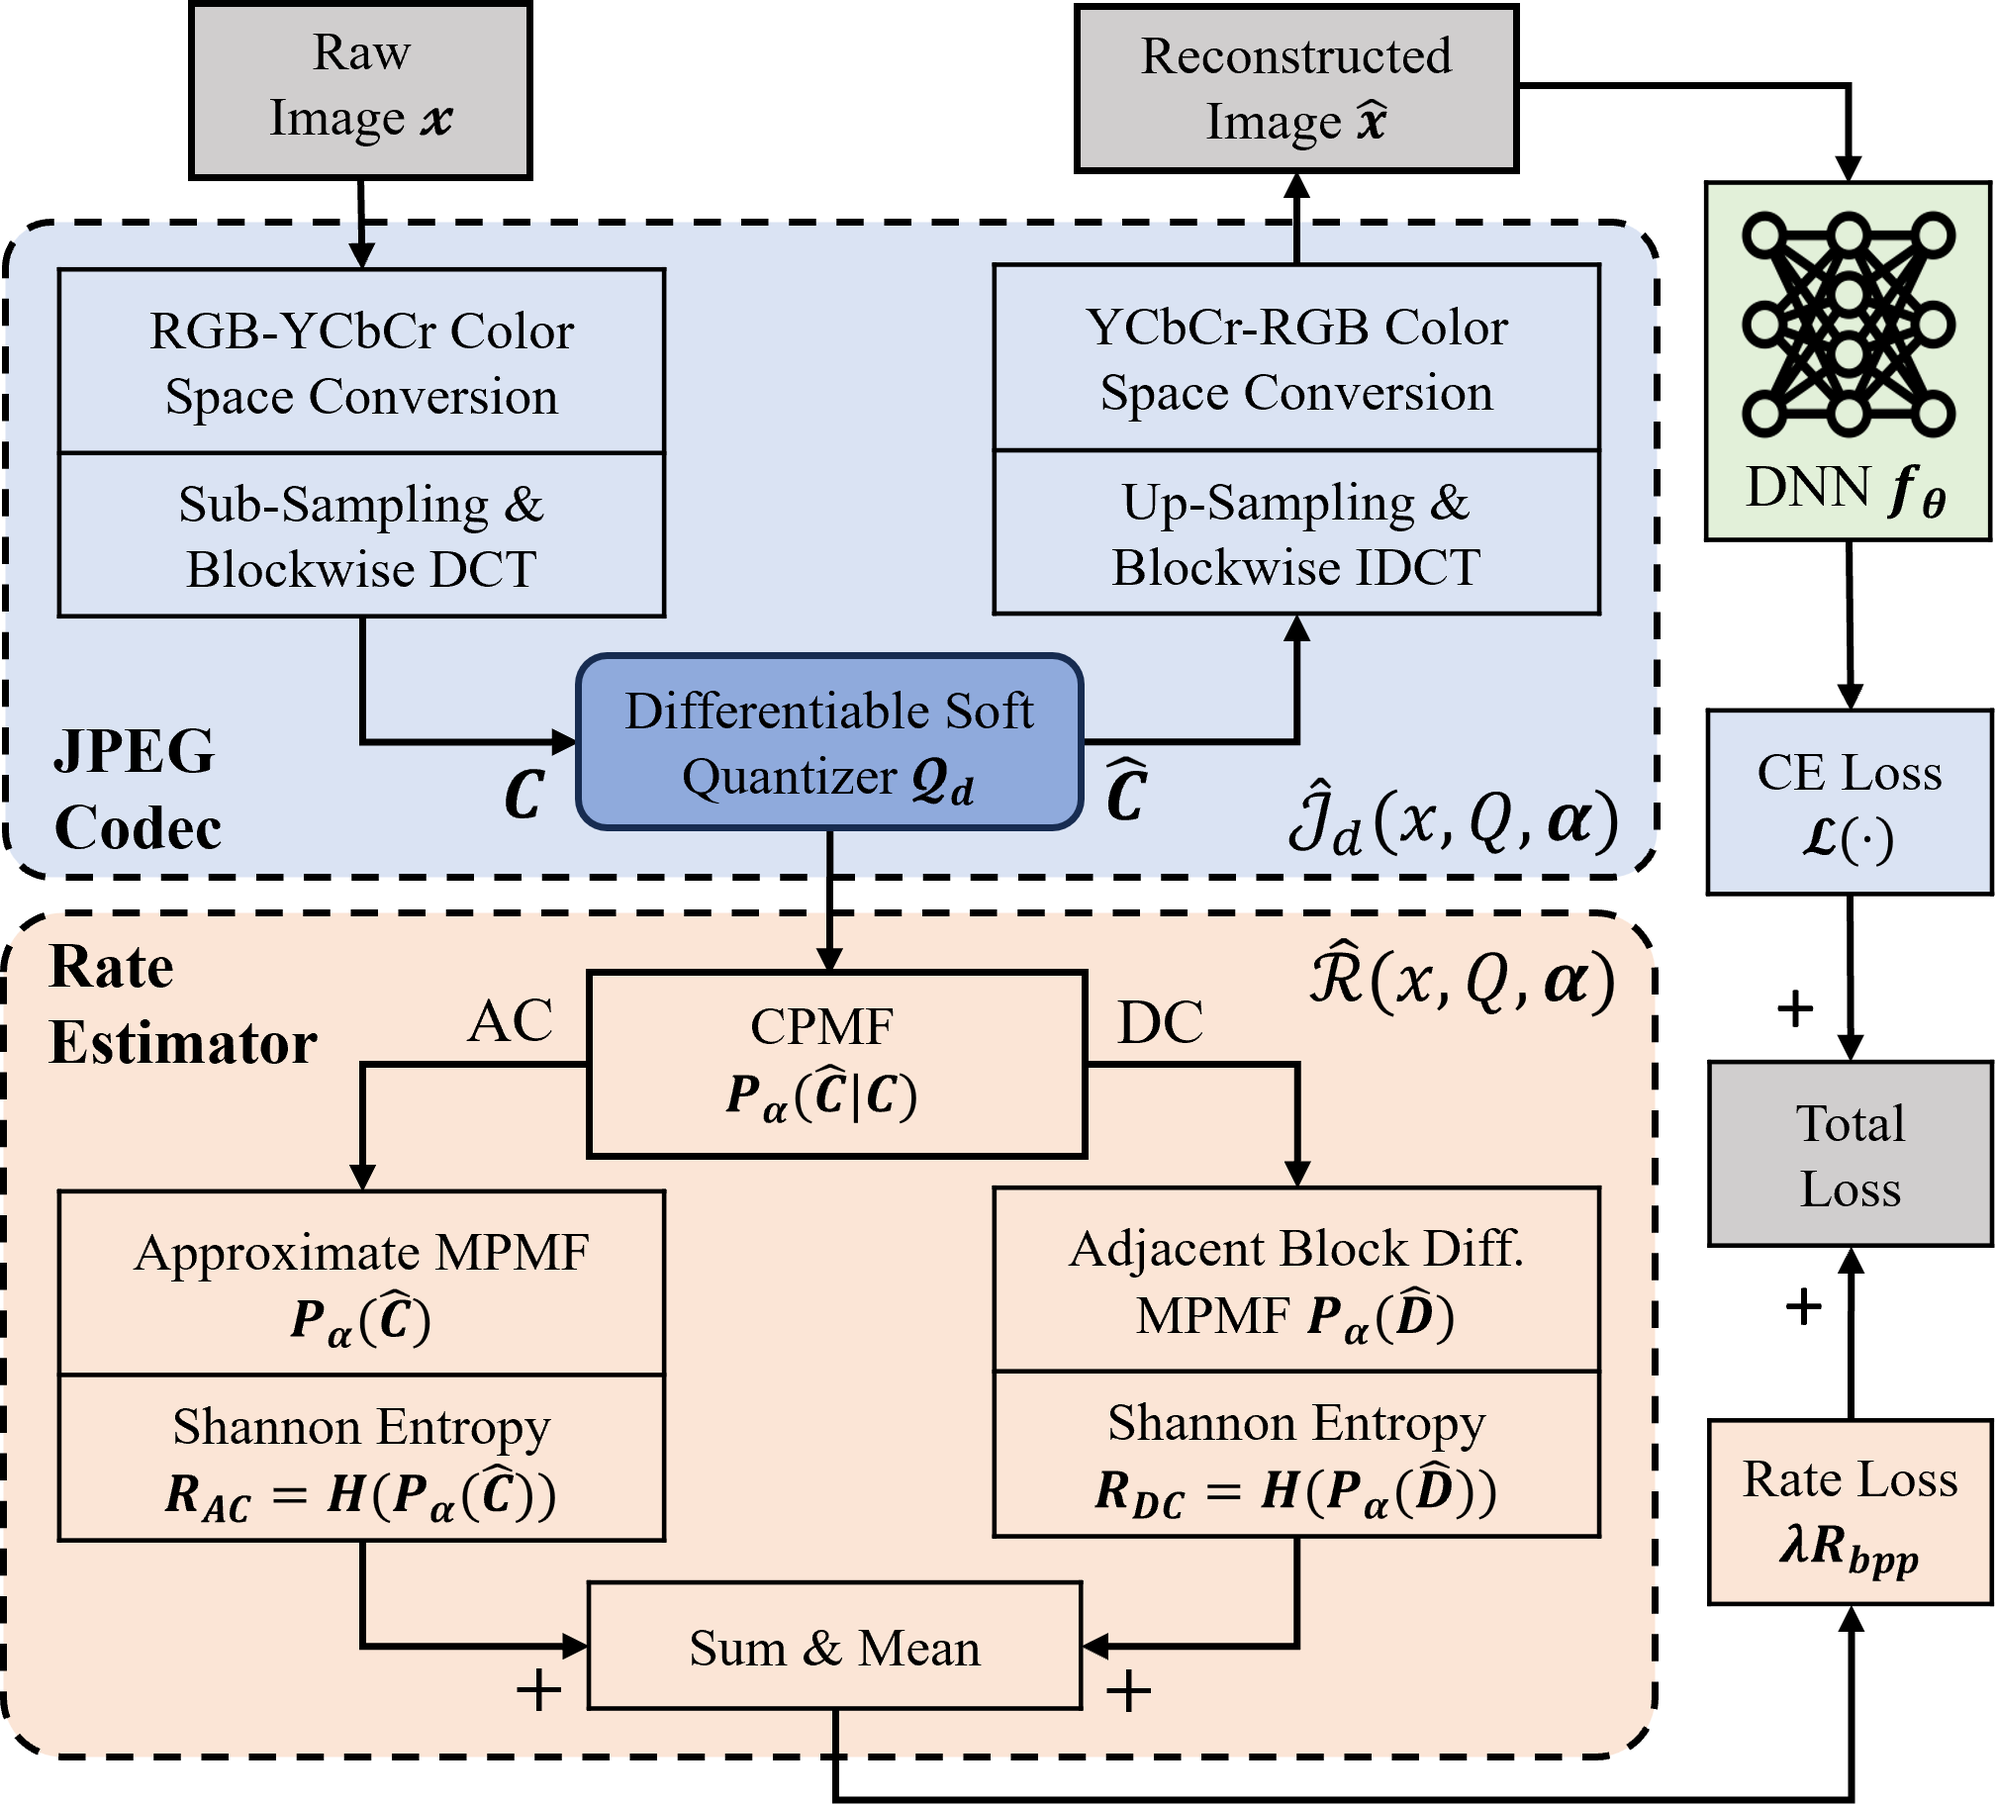
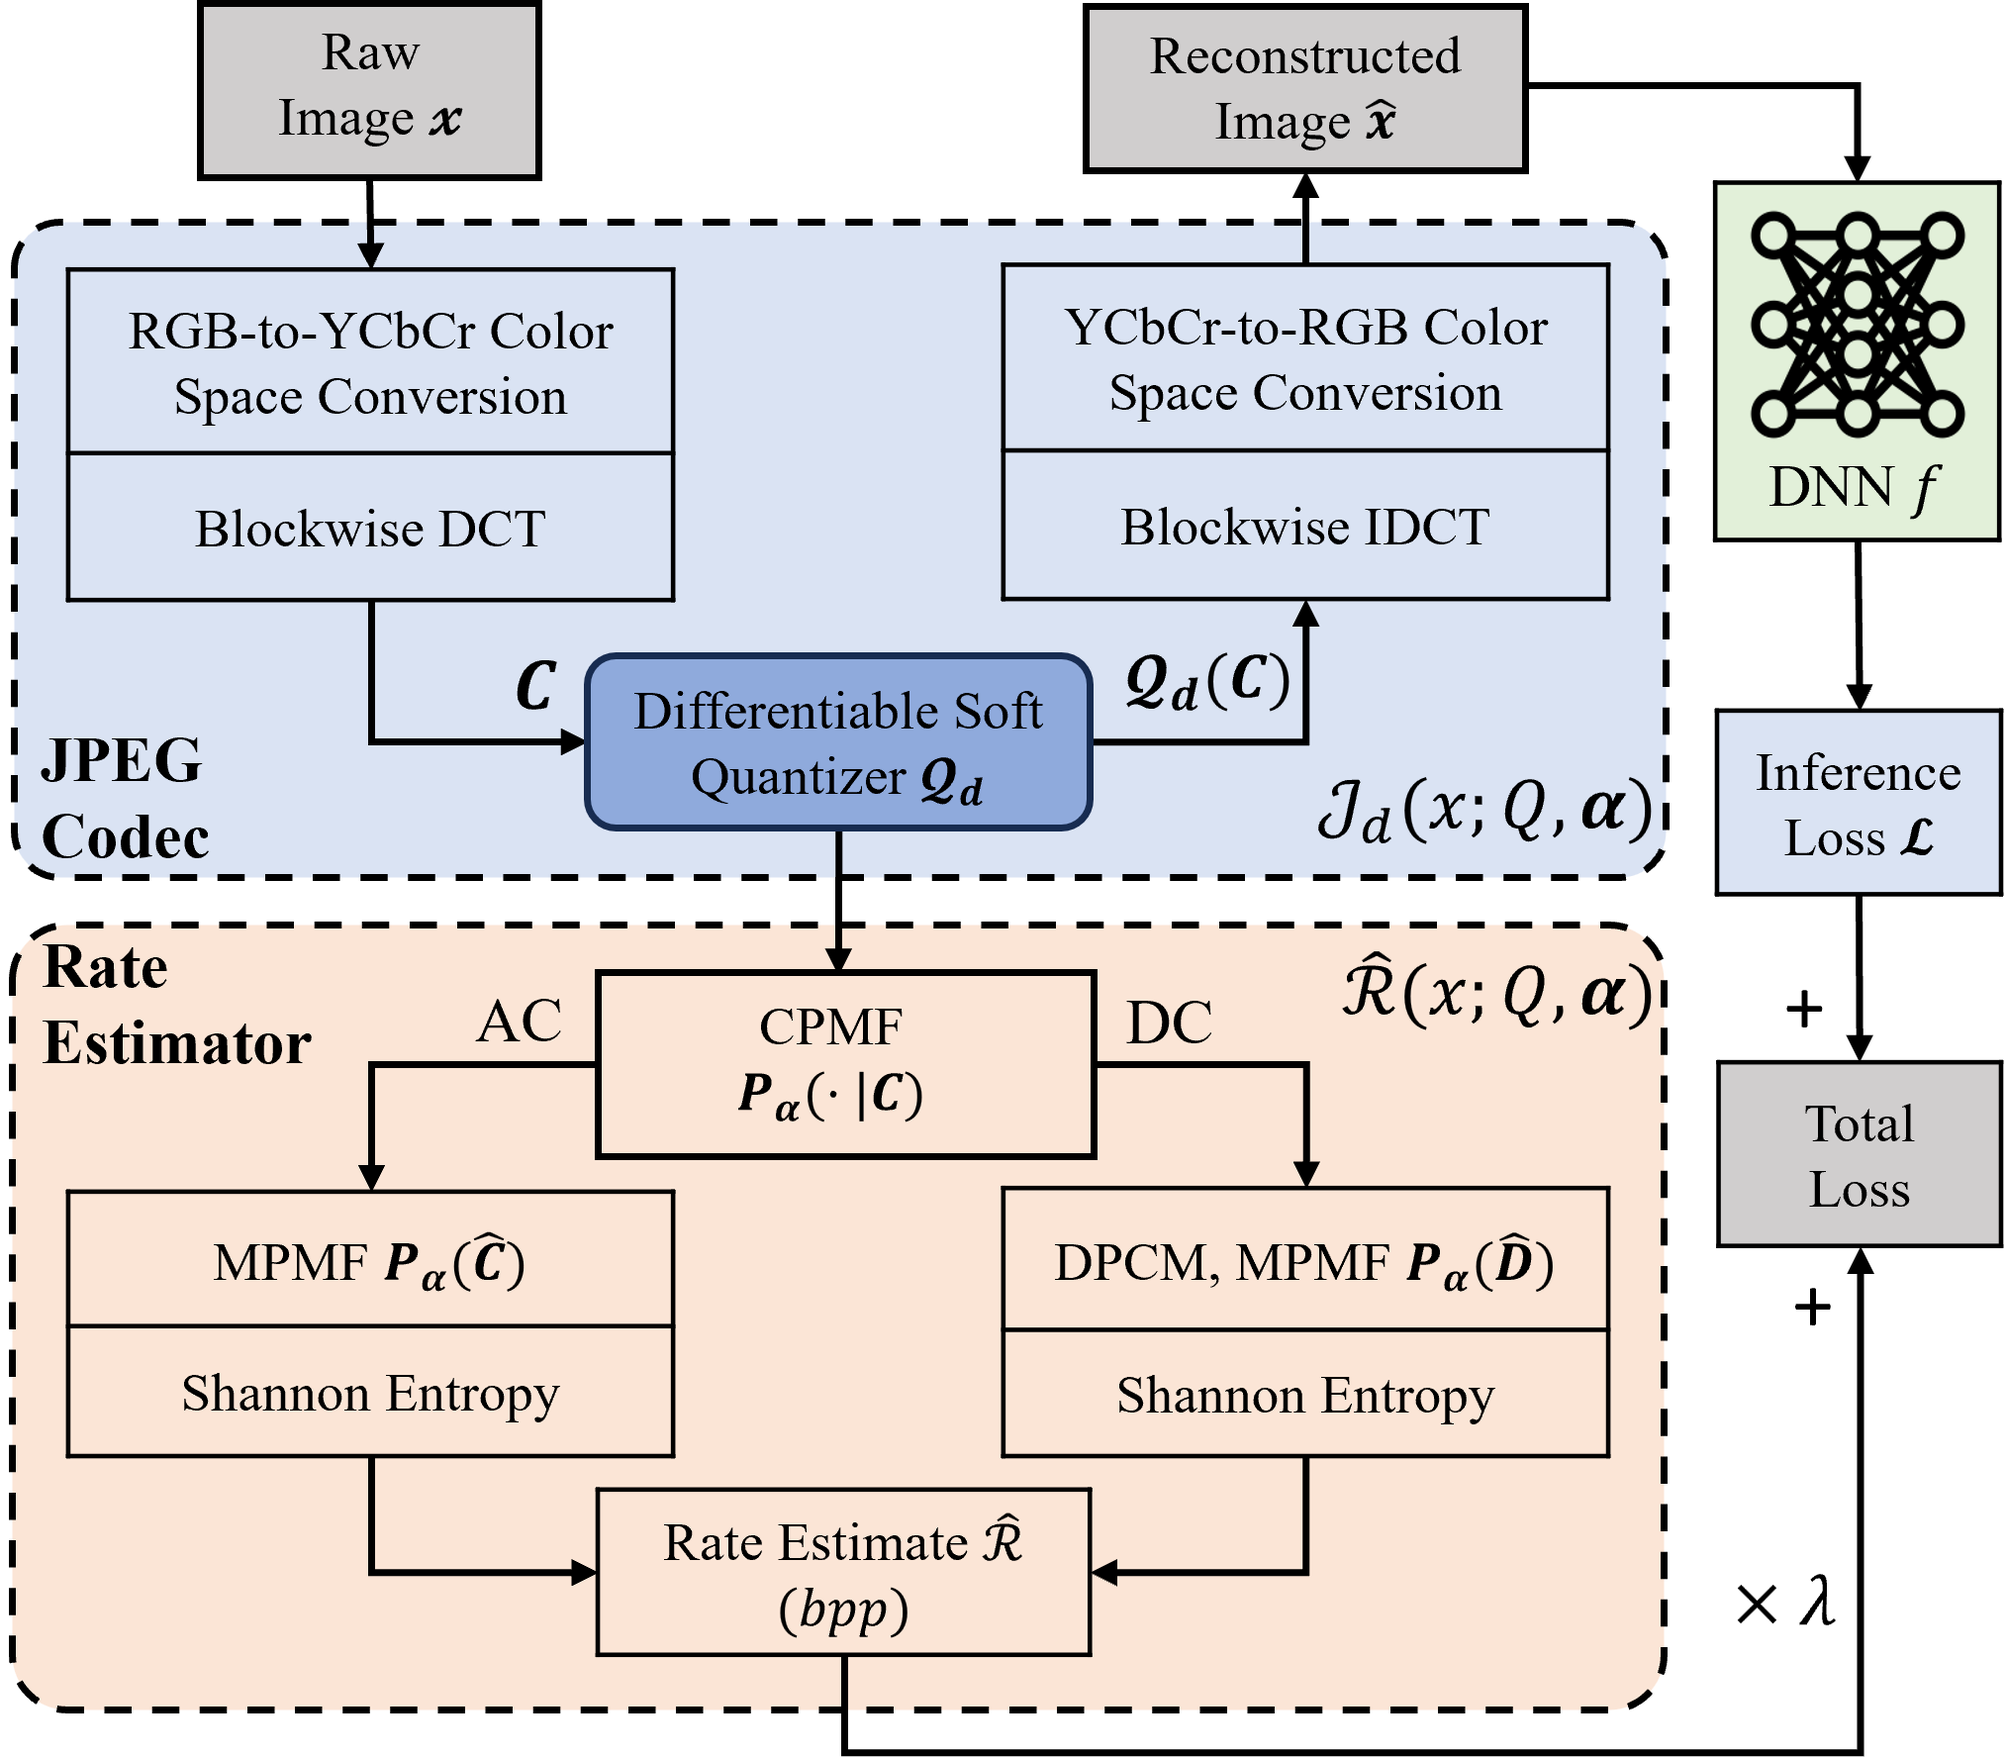
update

diff --git a/README.md b/README.md
@@ -11,6 +11,11 @@ class="center">
 The code is tested with Python 3.9, CUDA 11.7, and based on the `requirements.txt` or `requirements.yaml` files provided. The code also relies on the `rate_calc.so` and `HDQ.so` files for real rate calculation through run-length-encoding and Huffman coding during the testing stage using <i>Q<sub>p</sub></i> and <i>Q<sub>u</sub></i>, respectively.
 
 
+## Differentiable JPEG Codec and Rate Estimator
+THe code for implementing differentiable JPEG codec and rate estimator can be found in [this file](./helper/JPEG_layer.py). 
+
+To note that, since we use 11 bits to encompass all possible reconstruction levels, where L = 2<sup>b-1</sup> - 1, it will have some computation overheads since the softmax operation in quantizers with $11$ bits is time-consuming. To address this issue, each CPMF is modified to be concentrated proportionally on the top five values with the rest of the conditional probabilities to be 0.
+
 ## Training J4D
 For ImageNet training, please use [this bash file](./run_imagenet.sh).
 
